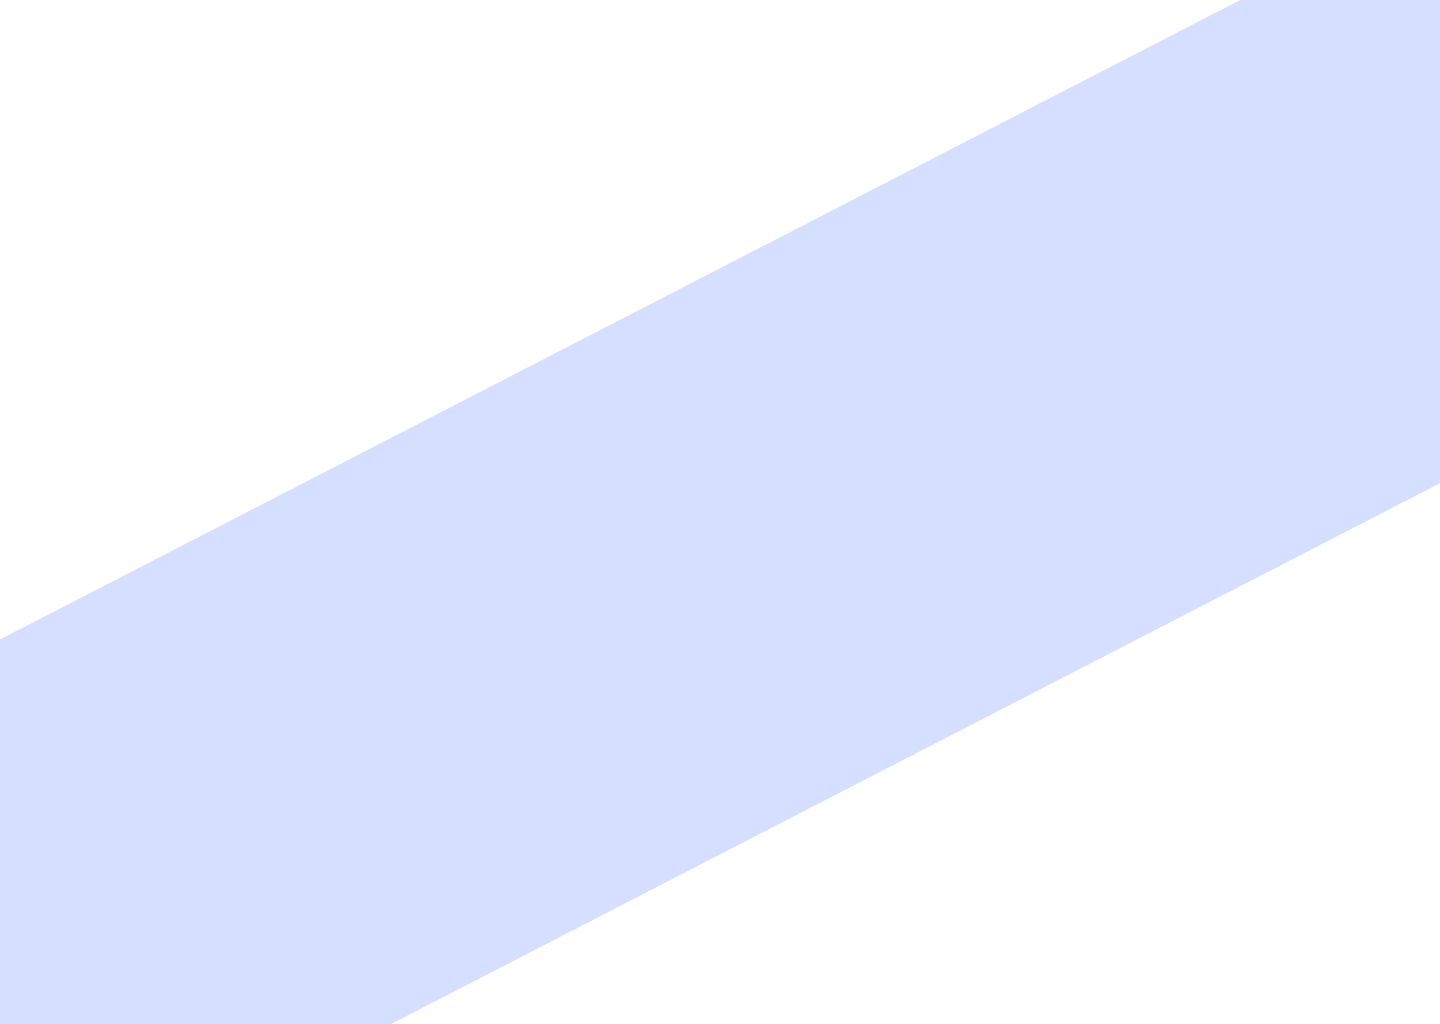
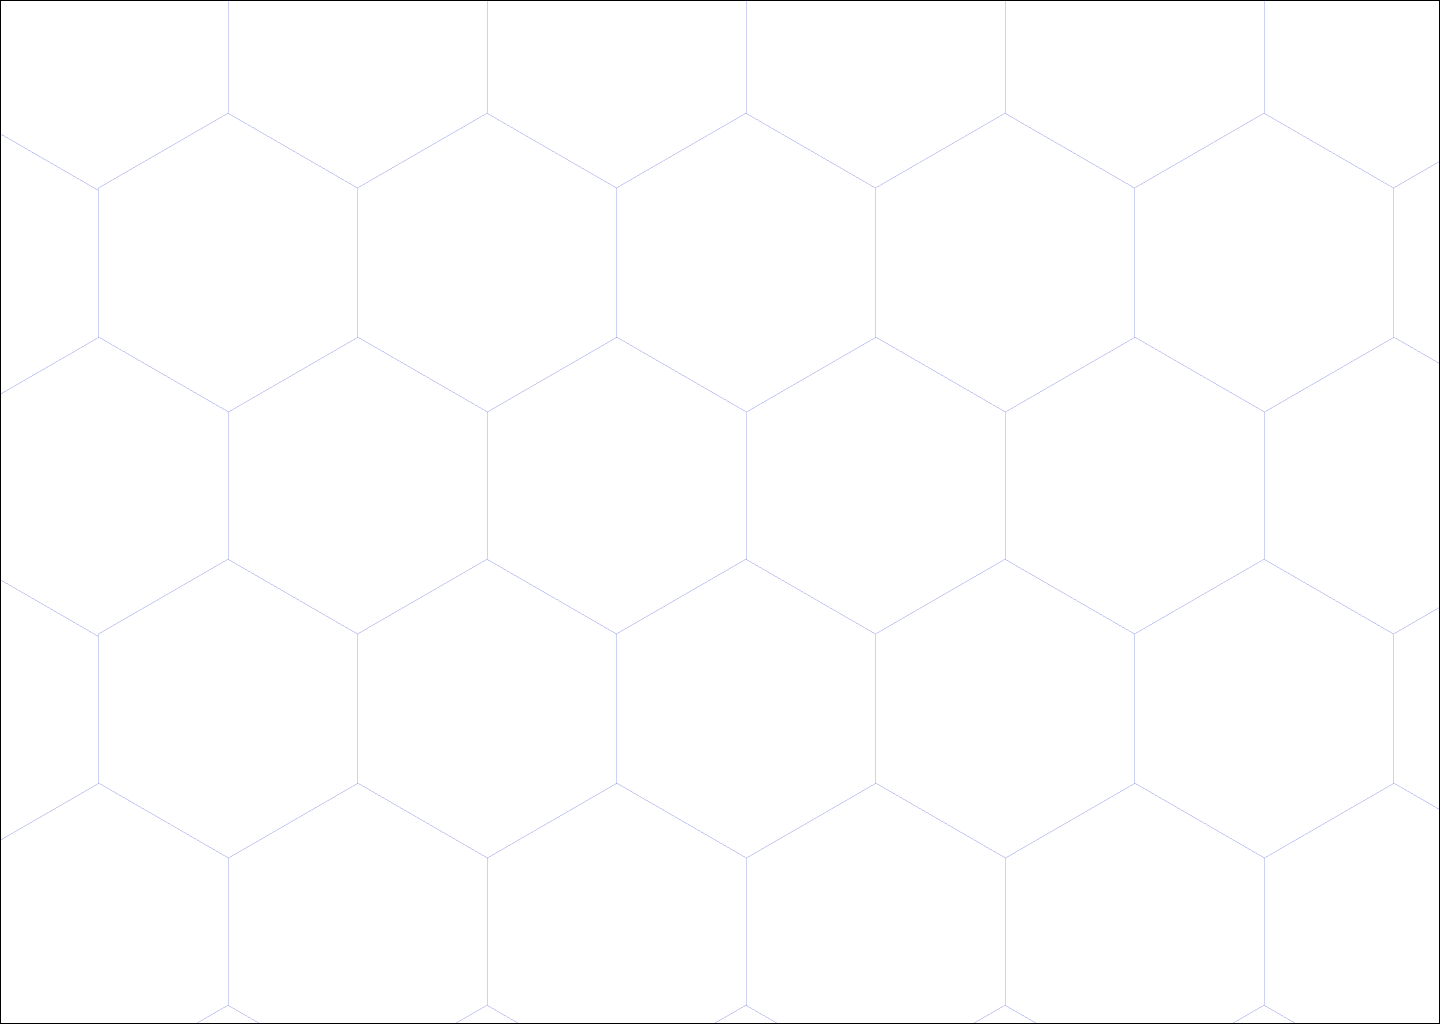
Monday updates

diff --git a/pages/index.js b/pages/index.js
@@ -14,14 +14,14 @@ export default function Home() {
       </Head>
 
           <div className="grid md:grid-cols-2">
-            <div className="w-full justify-self-center bg-white bg-opacity-40 p-6">
+            <div className="w-full justify-self-center bg-white bg-opacity-40 md:p-6">
+              <CardHeading>What is Gimbalabs?</CardHeading>
+              <CardText>GimbaLabs is a collaborative platform for people who want to show the world what Cardano can do. We are creating free and open source tools, lessons, and resources that people can learn from.</CardText>
+              <CardText>We believe that people learn best by doing things. If you've been looking for an entry point into how you can participate in Cardano, we think you might find it here.</CardText>
               <CardHeading>Our Mission</CardHeading>
               <CardText>Mobilizing everyone in the Cardano community by creating tools and real-world use cases that ignite the public imagination and facilitate adoption.</CardText>
               <CardHeading>Our Vision</CardHeading>
               <CardText>A world where as many people as possible are empowered to solve problems using the Cardano platform.</CardText>
-              <CardHeading>What is Gimbalabs?</CardHeading>
-              <CardText>GimbaLabs is a collaborative platform for people who want to show the world what Cardano can do. We are creating free and open source tools, lessons, and resources that people can learn from.</CardText>
-              <CardText>We believe that people learn best by doing things. If you've been looking for an entry point into how you can participate in Cardano, we think you might find it here.</CardText>
             </div>
             <div className="flex w-full content-center bg-white bg-opacity-40">
               <Image src={'/keepbees.jpeg'}  width="900" height="600" objectFit="contain" className="rounded shadow-xl" />

diff --git a/pages/tinker.js b/pages/tinker.js
@@ -1,12 +1,14 @@
 import Image from 'next/image'
+import { CardHeading, Paragraph } from '../components/Type'
 
 function tinker() {
     return (
     
-        <div className="bg-blue-700 h-96 w-3/4">
-            <h1>Here's all the ways we think about tinkering</h1>
-            <p>We provide entry points for developers who want to understand technical details, as well as a playground to help anyone who is curious get a feel for what Cardano will be able to do. For example - our calculator that helps you think about the IMPLICATIONs of staking...</p>
-            <p>all the tinkering partners: coding on chain, apis, LIFT, and more and more to tinker with is coming your way!!!!</p>
+        <div className="bg-blue-100 h-auto w-3/4">
+            <CardHeading>What do we mean by "Tinkering"?</CardHeading>
+            <Paragraph>We provide entry points for developers who want to understand technical details, as well as a playground to help anyone who is curious get a feel for what Cardano will be able to do. For example - our calculator that helps you think about the IMPLICATIONs of staking...</Paragraph>
+            <Paragraph>all the tinkering partners: coding on chain, apis, LIFT, and more and more to tinker with is coming your way!!!!</Paragraph>
+            <Paragraph>link to playground. in playground, a list of "toys". first two toys: ada to time; metadata via dandelion</Paragraph>
         </div>
         
     )

diff --git a/components/Footer.js b/components/Footer.js
@@ -2,24 +2,21 @@ import Link from 'next/link'
 
 function Footer() {
     return (
-        <div className="bg-purple-700 p-6 text-white">
-            <h2>Quick Links</h2>
-            <ul>
-              <li>
+        <div className="bg-purple-700 lg:p-6 text-white w-full lg:fixed lg:bottom-0 lg:z-40"> 
+            <h2 className="lg:inline-flex lg:w-auto px-5 text-lg">&rarr;</h2>
+         
                 <Link href='/cardanostarterkits'>
-                  <a>
+                  <a className="lg:inline-flex lg:w-auto px-5">
                     Cardano Starter Kits
                   </a>
                 </Link>
-              </li>
-              <li>
+              
                 <Link href='/dandelionapis'>
-                  <a>
+                  <a className="lg:inline-flex lg:w-auto px-5">
                     Dandelion APIs
                   </a>
                 </Link>
-              </li>
-            </ul>
+             
           </div>
     )
 }

diff --git a/components/Layout.js b/components/Layout.js
@@ -3,13 +3,13 @@ import Footer from './Footer'
 
 function Layout({ children }) {
     return (
-        <>
+        <div className="flex flex-col min-h-screen bg-polygon">
             <Nav />
-            <div className='min-h-screen flex flex-wrap content-center justify-center bg-gradient-to-r from-purple-300 via-purple-100 to-pink-100 pt-24'>
+            <div className='flex-grow py-20'>
                 {children}
             </div>
             <Footer />    
-        </>
+        </div>
     )
 }
 

diff --git a/components/CskCard.js b/components/CskCard.js
@@ -1,6 +1,6 @@
 function CskCard({ children }) {
     return (       
-        <div className='box-border rounded-lg ring-4 shadow-xl h-auto w-11/12 m-4 p-4 border-4 bg-blue-200 hover:bg-green-200 transform scale-100 hover:scale-105 hover:-rotate-3 z-20'>
+        <div className='box-border rounded ring-4 shadow-xl h-auto w-11/12 m-4 p-4 border-4 bg-blue-200 hover:bg-green-200 transform scale-100 hover:scale-105 hover:-rotate-3 z-20'>
             {children}
         </div>    
     )

diff --git a/components/Type.js b/components/Type.js
@@ -20,7 +20,15 @@ export function CardSubHeading({children}) {
 export function CardText({children}) {
     return (
         <>
-            <p className="p-6">{children}</p>  
+            <p className="p-4 md:p-6">{children}</p>  
+        </>
+    )
+}
+
+export function Paragraph({children}) {
+    return (
+        <>
+            <p className="text-lg p-6">{children}</p>
         </>
     )
 }

diff --git a/pages/about.js b/pages/about.js
@@ -23,6 +23,8 @@ function about() {
             <p>Our treasury</p>
             <p>Weekly updates - link and present our videos / most recent + link to list</p>
             <p>Github - a collective, link to everyone: WSM, Dandelion, NothingAlike, etc</p>
+            <p>Grab notes from Evernote</p>
+            <p>Grab notes from Figma</p>
         </Content>
     )
 }

diff --git a/tailwind.config.js b/tailwind.config.js
@@ -21,6 +21,7 @@ module.exports = {
           'tinker' : "url('/tinker.jpeg')",
           'learn' : "url('/learn.jpeg')",
           'collab' : "url('/collab.jpeg')",
+          'polygon' : "url('/polygon.png')",
          })
       },
     },
